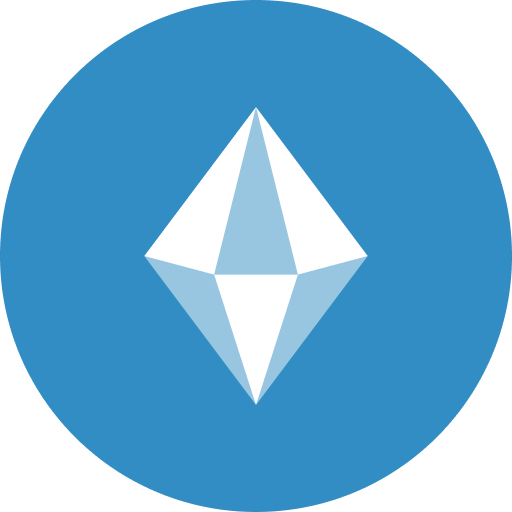
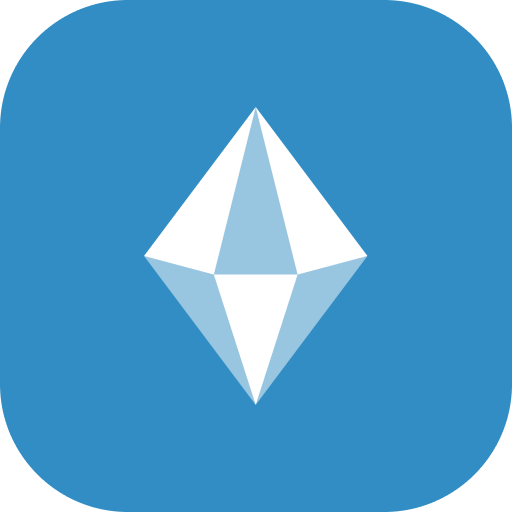
починен баг с выходом + обновлены картинки

diff --git a/Prism.Player.Android/app/src/main/java/org/prism/player/SettingsActivity.kt b/Prism.Player.Android/app/src/main/java/org/prism/player/SettingsActivity.kt
@@ -35,23 +35,23 @@ class SettingsActivity : Activity() {
         }
 
         val uriType = InputType.TYPE_CLASS_TEXT or InputType.TYPE_TEXT_VARIATION_URI
-        val brokerField = field("Адрес MQTT-брокера", Settings.brokerUrl(this), uriType)
+        val brokerField = field(getString(R.string.settings_broker), Settings.brokerUrl(this), uriType)
         val userField = field(
-            "Логин MQTT (необязательно)", Settings.mqttUser(this), InputType.TYPE_CLASS_TEXT,
+            getString(R.string.settings_user), Settings.mqttUser(this), InputType.TYPE_CLASS_TEXT,
         )
         val passField = field(
-            "Пароль MQTT (необязательно)", Settings.mqttPassword(this),
+            getString(R.string.settings_password), Settings.mqttPassword(this),
             InputType.TYPE_CLASS_TEXT or InputType.TYPE_TEXT_VARIATION_PASSWORD,
         )
         val nameField = field(
-            "Отображаемое имя", Settings.playerName(this), InputType.TYPE_CLASS_TEXT,
+            getString(R.string.settings_name), Settings.playerName(this), InputType.TYPE_CLASS_TEXT,
         )
 
         // Идентификатор плеера — только для чтения (генерируется автоматически).
-        container.addView(TextView(this).apply { text = "ID плеера (не редактируется):" })
+        container.addView(TextView(this).apply { text = getString(R.string.settings_player_id) })
         container.addView(TextView(this).apply { text = Settings.playerId(this@SettingsActivity) })
 
-        val save = Button(this).apply { text = "Сохранить" }
+        val save = Button(this).apply { text = getString(R.string.settings_save) }
         container.addView(save)
 
         save.setOnClickListener {

diff --git a/Prism.Player.Android/app/src/main/java/org/prism/player/MainActivity.kt b/Prism.Player.Android/app/src/main/java/org/prism/player/MainActivity.kt
@@ -80,7 +80,7 @@ class MainActivity : Activity() {
 
         // Надпись об ошибке — по центру, поверх видео, скрыта до ошибки.
         val error = TextView(this).apply {
-            text = "Не удалось открыть видео"
+            text = getString(R.string.error_playback)
             textSize = 20f
             visibility = View.GONE
             setTextColor(0xFFFFFFFF.toInt())
@@ -163,7 +163,7 @@ class MainActivity : Activity() {
     }
 
     private fun updateStatus(connected: Boolean) {
-        statusText?.text = if (connected) "Брокер: подключено" else "Брокер: нет связи"
+        statusText?.text = getString(if (connected) R.string.mqtt_connected else R.string.mqtt_disconnected)
     }
 
     // Back при открытом фильме — закрыть по ДВОЙНОМУ нажатию (чтобы случайно не сбросить
@@ -180,7 +180,7 @@ class MainActivity : Activity() {
             c.clearMediaItems() // второй Back — закрыть фильм
         } else {
             lastBackMs = now
-            Toast.makeText(this, "Нажмите «Назад» ещё раз, чтобы закрыть", Toast.LENGTH_SHORT).show()
+            Toast.makeText(this, getString(R.string.back_to_close), Toast.LENGTH_SHORT).show()
         }
     }
 

diff --git a/Prism.Player.Android/README.md b/Prism.Player.Android/README.md
@@ -30,6 +30,9 @@ Android TV; координация (напр. ThinkingHome) — снаружи, 
   D-pad. Обзора библиотеки в самом плеере
   нет — это дело координатора/веб-клиента.
 - иконка + TV-баннер (`LEANBACK_LAUNCHER`) — приложение видно на домашнем экране Android TV.
+- **Локализация RU/EN** — строки в `res/values/strings.xml` (англ., по умолчанию) и
+  `res/values-ru/strings.xml`; язык подхватывается по системному (стандартный Android
+  i18n, без кода/выбора языка в приложении).
 
 ## Конфигурация
 
@@ -57,8 +60,8 @@ Android TV; координация (напр. ThinkingHome) — снаружи, 
   `isAutomaticReconnect` Paho с переподпиской на топик. Отдельного диалога нет —
   состояние показывает статус-надпись (ниже). Так приставка не выпадает из
   управления при кратком сбое брокера.
-- **Статус брокера** — мелкая надпись у нижнего края стартового экрана:
-  «Брокер: подключено» / «Брокер: нет связи» (при воспроизведении скрыта).
+- **Статус MQTT** — мелкая надпись у нижнего края стартового экрана:
+  «MQTT: подключено» / «MQTT: нет связи» (при воспроизведении скрыта).
 - **Хост/поток недоступен** (или неверный `url`): ExoPlayer отдаёт ошибку —
   показываем надпись «Не удалось открыть видео» поверх видео и больше ничего не
   делаем; она исчезает при следующем `open`.
